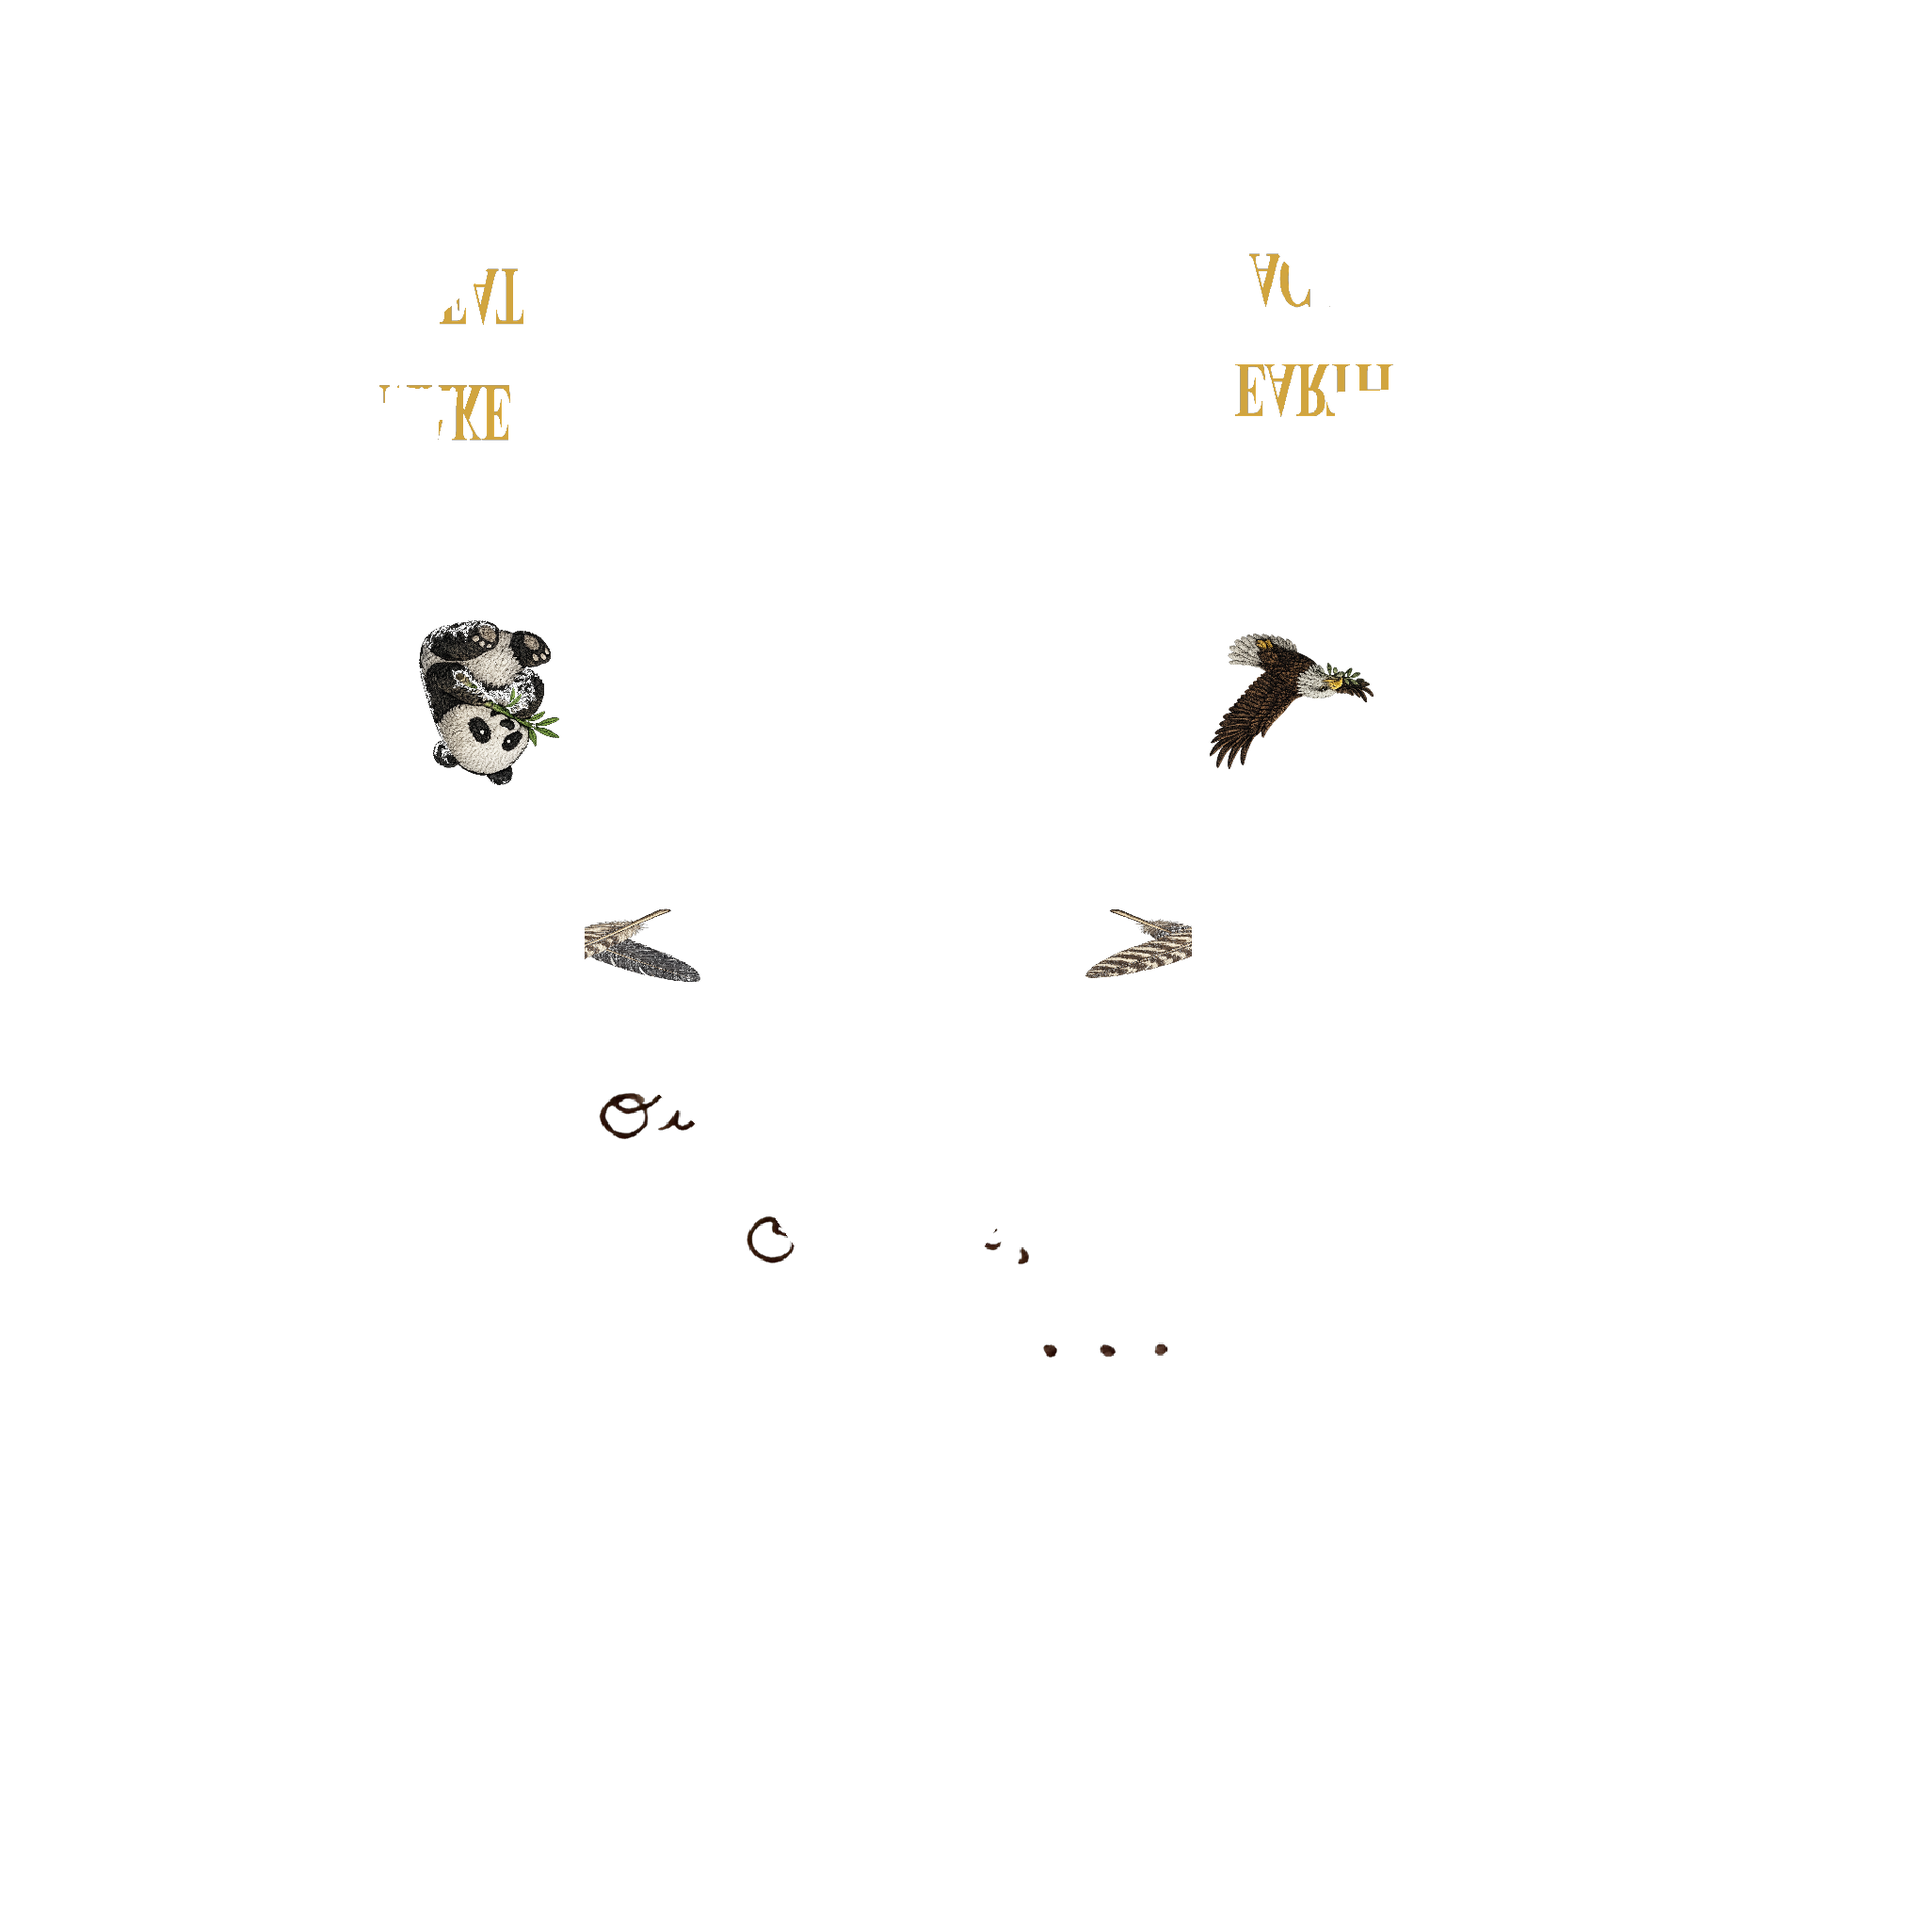
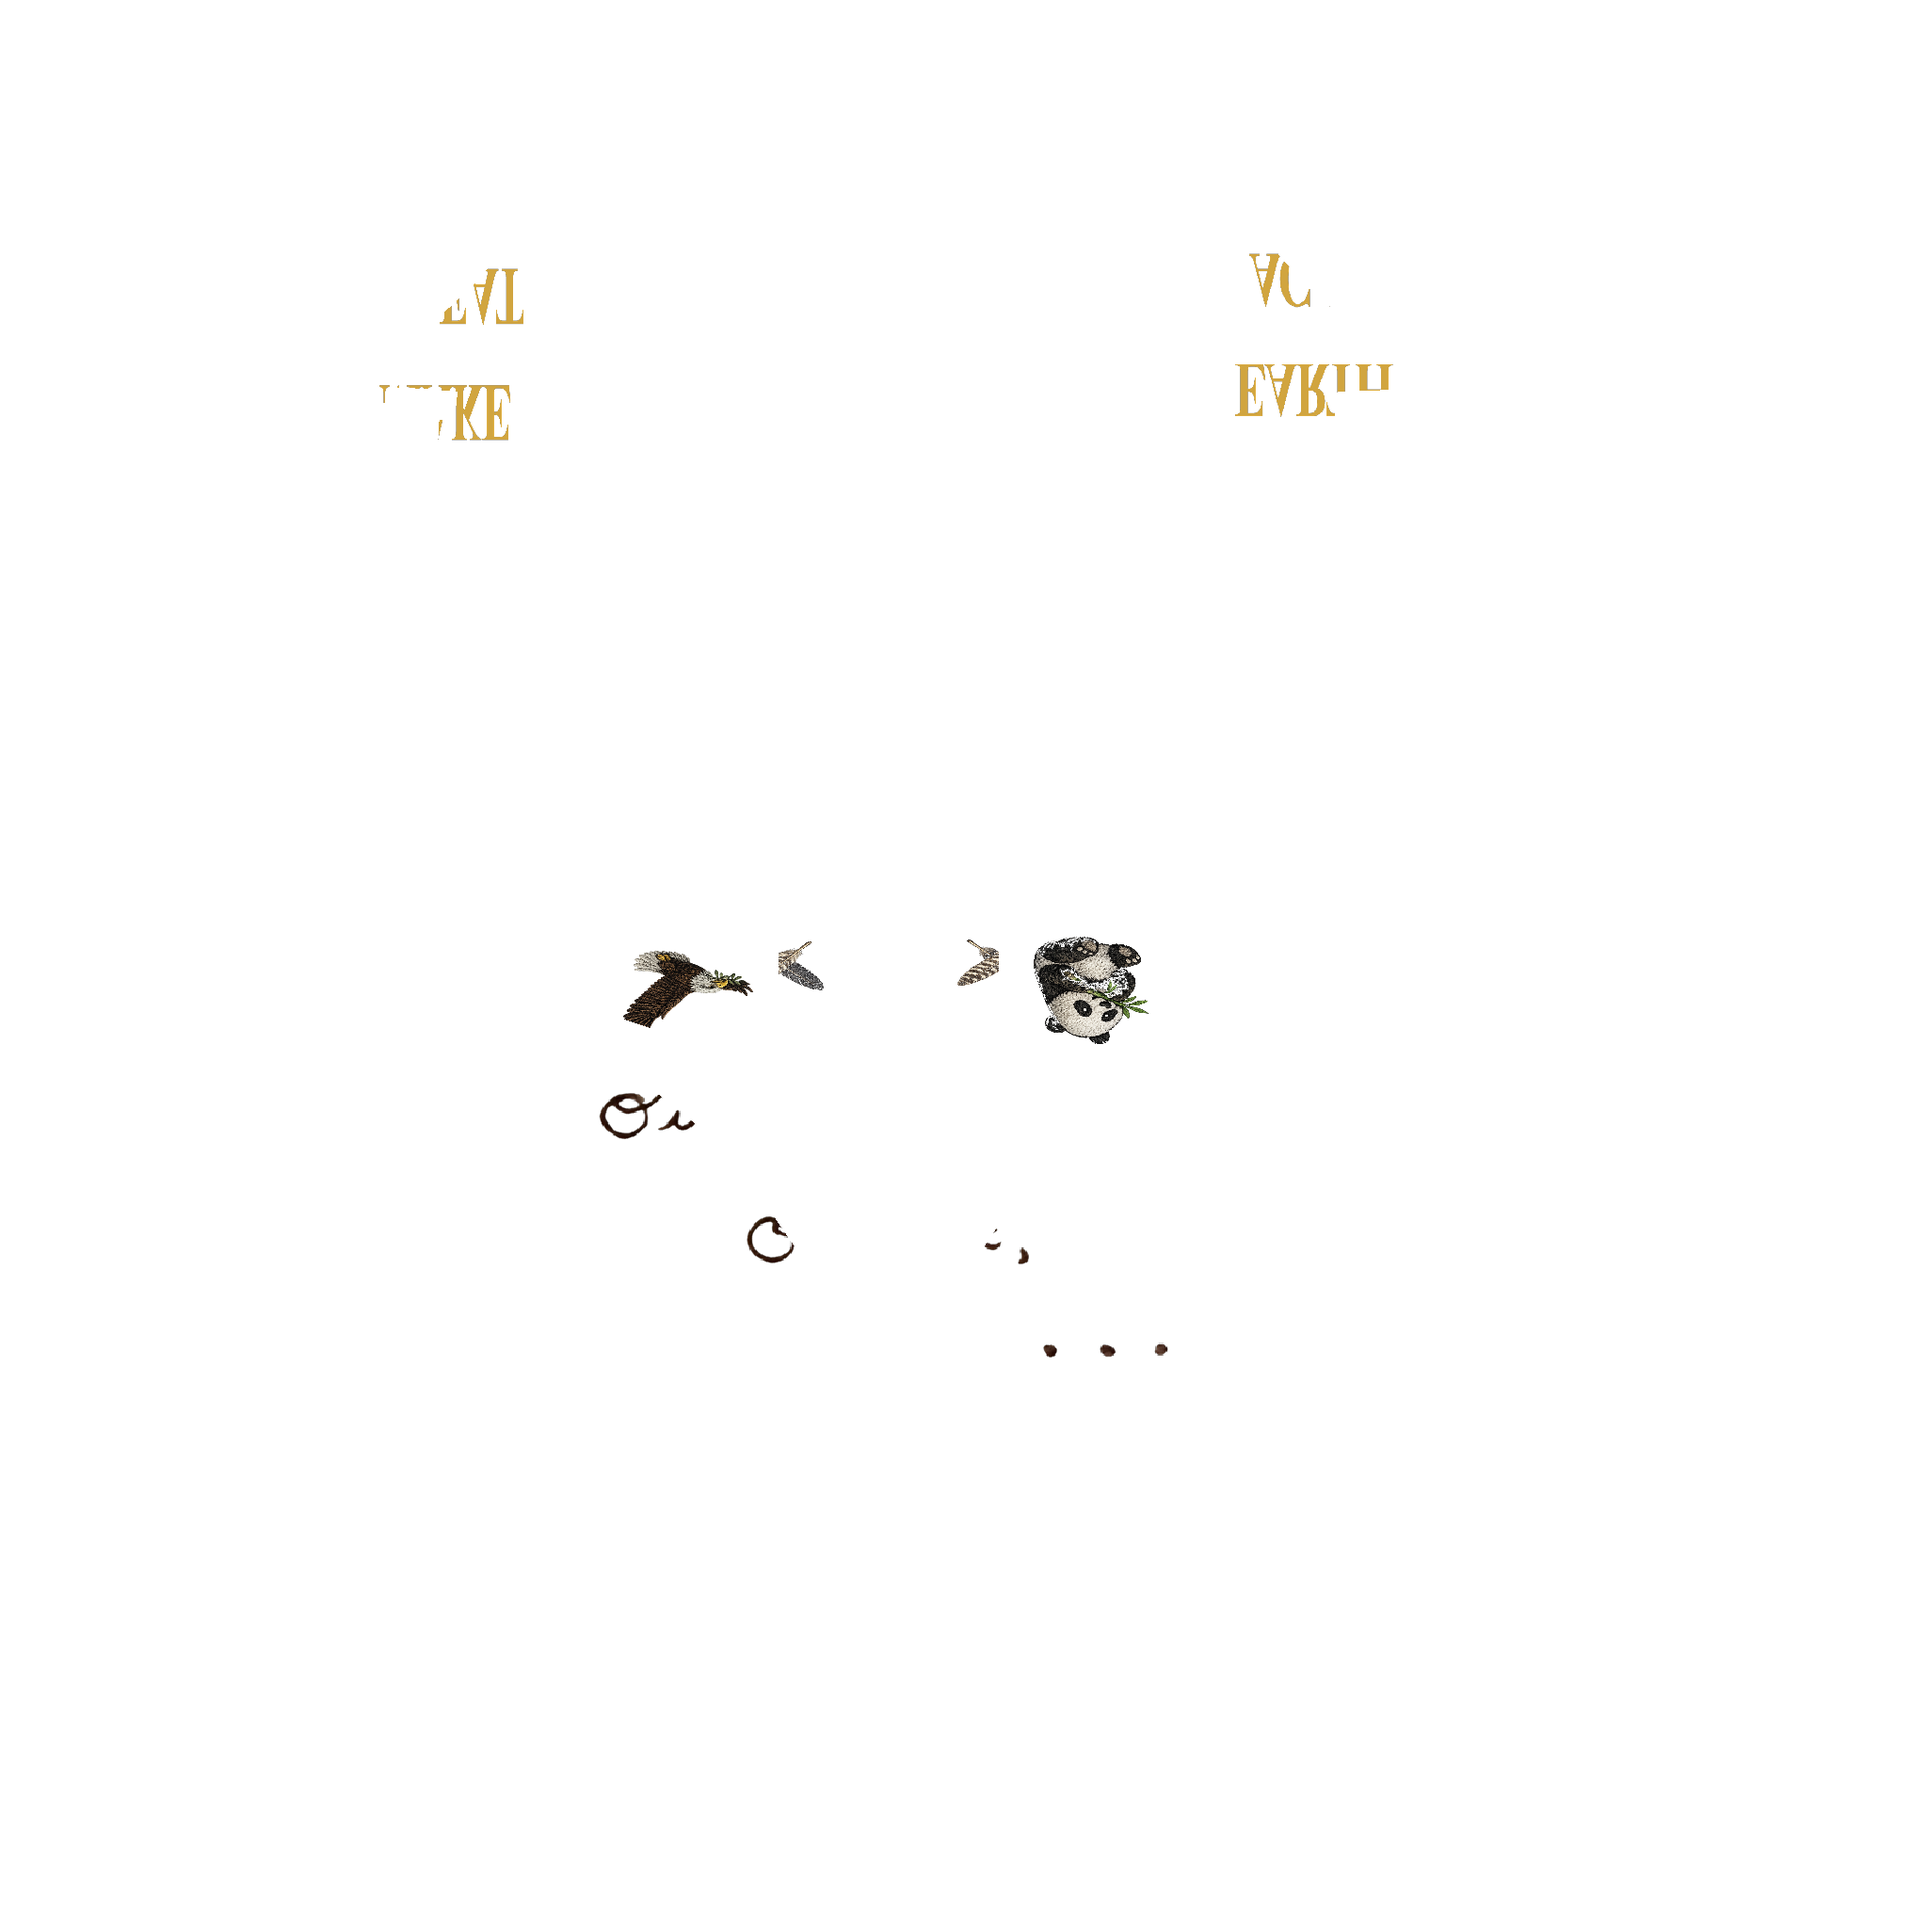
fix(hat): atlas — eagle/panda on back panels, feathers above hole
Move eagle from cap-LEFT side panel → cap-LEFT back panel (lower-back).
Move panda from cap-RIGHT side panel → cap-RIGHT back panel (lower-back).
Crossed feathers split centered above the strap/hole between them.

diff --git a/scripts/bake_cap_decals.py b/scripts/bake_cap_decals.py
@@ -363,9 +363,6 @@ hit_log['mega_R'] = paint_in_uv_bbox(
     mega_R_bbox, dimg['mega'], 0.5, 1.0, 0.0, 1.0,
     tris_by_iid[iid_right], flip_v=True)
 
-# PANDA on cap-LEFT side panel — paint into the SIDE-face UV bbox.
-# Center the panda within the available area, inset 20% to keep it small
-# and 100% within the visible panel surface (no clipping).
 def center_in_bbox(b, frac_w, frac_h):
     """Return a sub-bbox centered in b with given width/height fractions."""
     if not b: return None
@@ -376,20 +373,45 @@ def center_in_bbox(b, frac_w, frac_h):
     hh = bh * frac_h / 2
     return (cu - hw, cv - hh, cu + hw, cv + hh)
 
-# Side decals: 60% of the side-panel UV bbox (small, centered, embroidery-sized)
-panda_bbox = center_in_bbox(side_uv_L, 0.6, 0.6)
-eagle_bbox = center_in_bbox(side_uv_R, 0.6, 0.6)
-hit_log['panda'] = paint_in_uv_bbox(
-    panda_bbox, dimg['panda'], 0.0, 1.0, 0.0, 1.0,
-    tris_by_iid[iid_left], flip_v=True)
+def anchor_in_bbox(b, frac_w, frac_h, anchor_u=0.5, anchor_v=0.5):
+    """Sub-bbox of size (frac_w, frac_h) anchored at (anchor_u, anchor_v) in b.
+    anchor_u/v in [0,1]: 0=lo, 1=hi edge of b. Width/height clipped to bbox."""
+    if not b: return None
+    u_lo, v_lo, u_hi, v_hi = b
+    bw, bh = u_hi - u_lo, v_hi - v_lo
+    cw, ch = bw * frac_w, bh * frac_h
+    cu = u_lo + anchor_u * bw
+    cv = v_lo + anchor_v * bh
+    u0 = max(u_lo, cu - cw/2); u1 = min(u_hi, cu + cw/2)
+    v0 = max(v_lo, cv - ch/2); v1 = min(v_hi, cv + ch/2)
+    return (u0, v0, u1, v1)
+
+# UV-V mapping: V near panel V_max ≈ apex, V near V_min ≈ strap/back-bottom.
+# back_face_uv_bbox covers the rear-facing band — within it:
+#   anchor_v=0.20 → low (just above strap/hole)
+#   anchor_v=0.55 → mid (above hole)
+#   anchor_v=0.85 → high (near apex)
+# anchor_u: 0.0 = panel-outer edge, 1.0 = center seam
+# Eagle on cap-LEFT back panel (viewer sees on LEFT when looking at back).
+# Panda on cap-RIGHT back panel. Both anchored slightly off the seam, at low V
+# (near strap) so they sit on the lower-back corners.
+eagle_bbox = anchor_in_bbox(back_uv_L, frac_w=0.40, frac_h=0.42,
+                            anchor_u=0.45, anchor_v=0.30)
+panda_bbox = anchor_in_bbox(back_uv_R, frac_w=0.40, frac_h=0.42,
+                            anchor_u=0.55, anchor_v=0.30)
 hit_log['eagle'] = paint_in_uv_bbox(
     eagle_bbox, dimg['eagle'], 0.0, 1.0, 0.0, 1.0,
-    tris_by_iid[iid_right], flip_v=True)
+    tris_by_iid[iid_left], flip_v=True) if eagle_bbox else 0
+hit_log['panda'] = paint_in_uv_bbox(
+    panda_bbox, dimg['panda'], 0.0, 1.0, 0.0, 1.0,
+    tris_by_iid[iid_right], flip_v=True) if panda_bbox else 0
 
-# FEATHERS on cap-BACK — split at panel seam.
-# Use the back-face UV bboxes; each half occupies one panel.
-feathers_L_bbox = center_in_bbox(back_uv_L, 0.7, 0.6) if back_uv_L else None
-feathers_R_bbox = center_in_bbox(back_uv_R, 0.7, 0.6) if back_uv_R else None
+# FEATHERS centered above the back-hat-hole, split across the cap-center seam.
+# Lower V than apex, but above the strap/hole. Anchor at the seam (u=1.0 on L, u=0.0 on R).
+feathers_L_bbox = anchor_in_bbox(back_uv_L, frac_w=0.45, frac_h=0.40,
+                                 anchor_u=0.95, anchor_v=0.42)
+feathers_R_bbox = anchor_in_bbox(back_uv_R, frac_w=0.45, frac_h=0.40,
+                                 anchor_u=0.05, anchor_v=0.42)
 hit_log['feathers_L'] = paint_in_uv_bbox(
     feathers_L_bbox, dimg['feathers'], 0.5, 1.0, 0.0, 1.0,
     tris_by_iid[iid_left], flip_v=True) if feathers_L_bbox else 0
